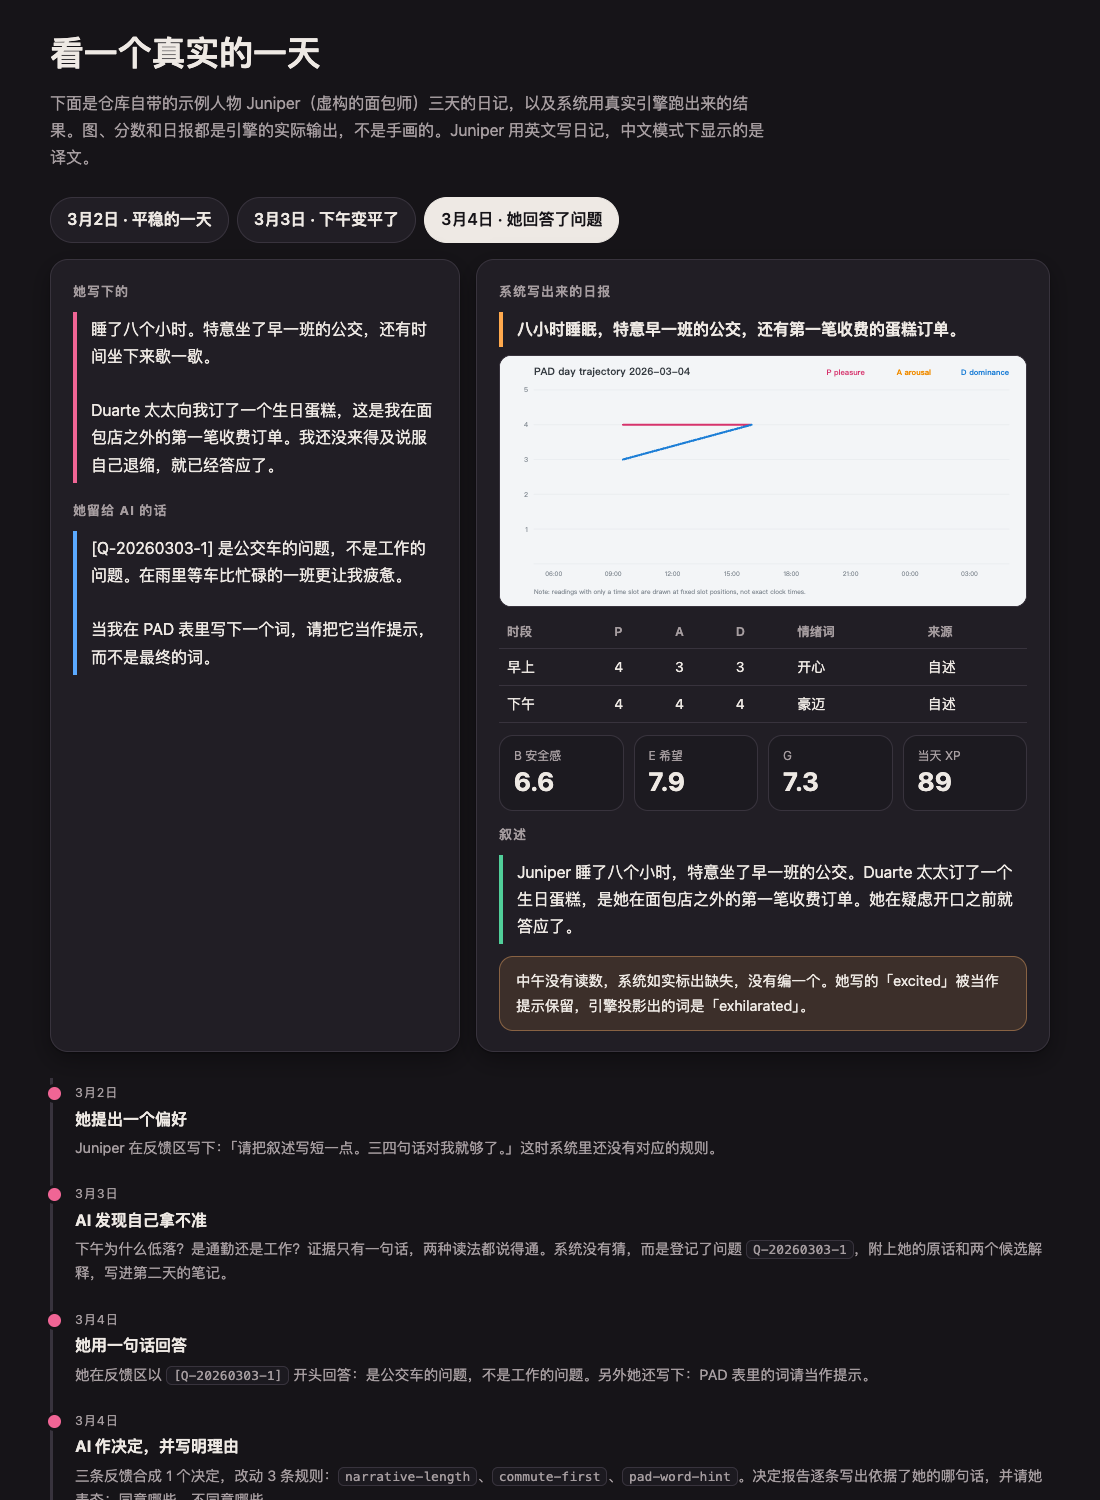
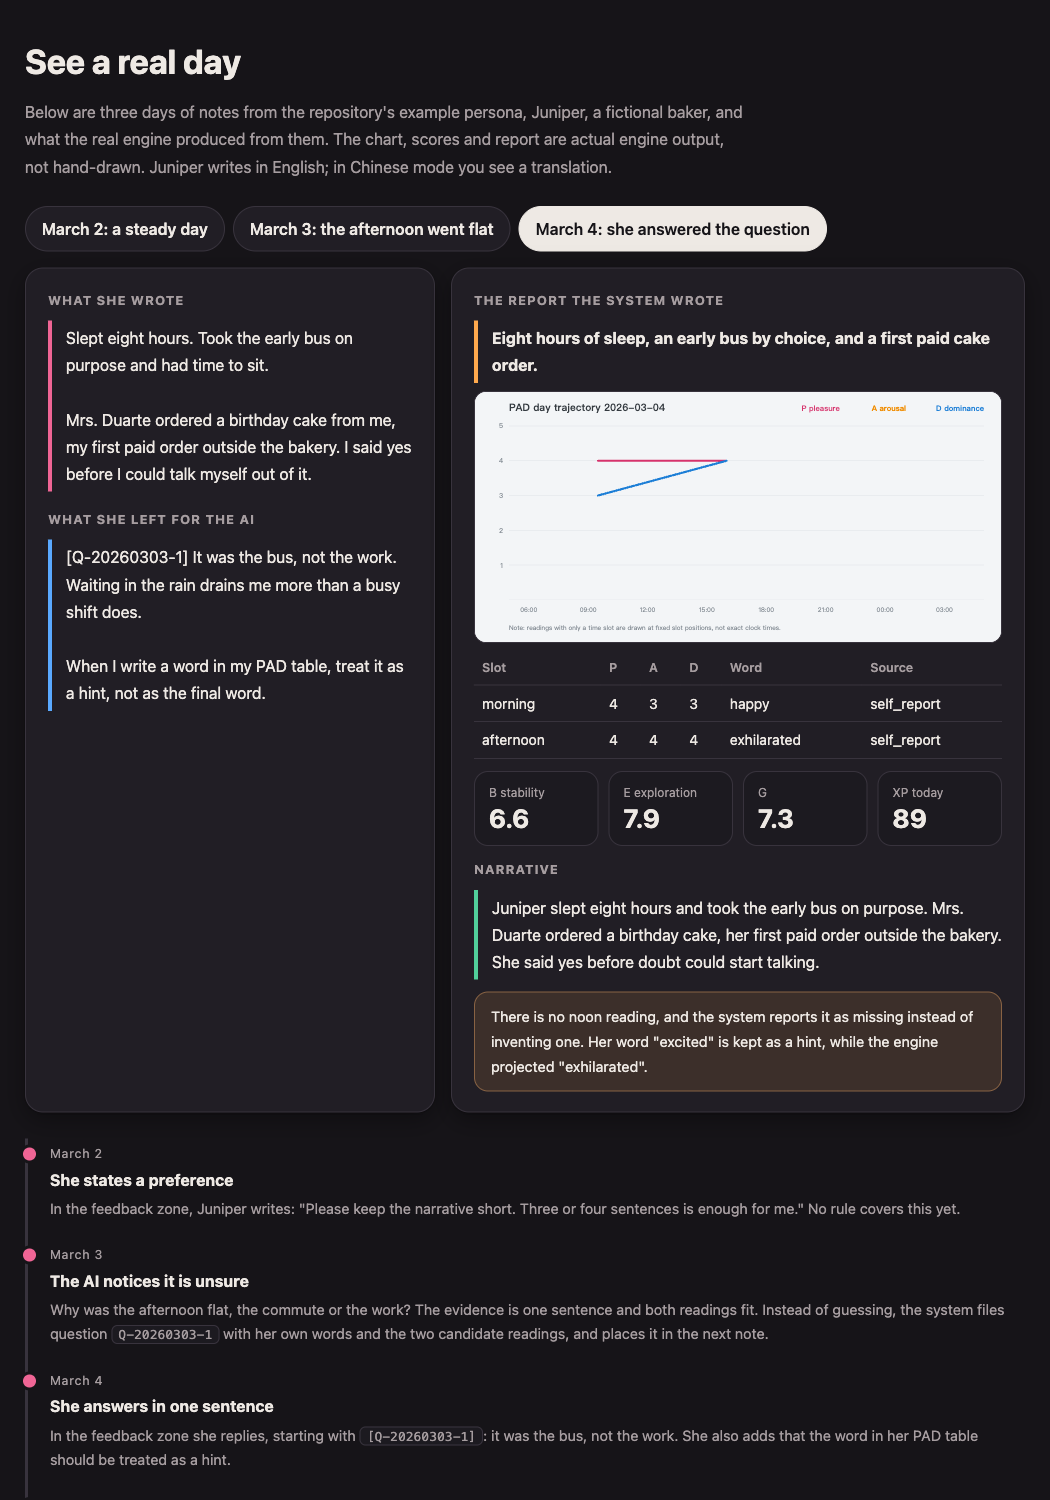
docs: English day screenshot for README.md, Chinese one for README.zh.md (new G labels)

diff --git a/README.zh.md b/README.zh.md
@@ -68,7 +68,7 @@ etrace prompt daily --raw  # 代理跑日报时用的 prompt
 
 ## 一天是什么样
 
-<p align="center"><a href="https://maxont.github.io/existence-trace/#day"><img src="docs/img/day.png" alt="一位虚构面包师的一天：笔记、疑问、反馈、日报" width="720"></a></p>
+<p align="center"><a href="https://maxont.github.io/existence-trace/#day"><img src="docs/img/day.zh.png" alt="一位虚构面包师的一天：笔记、疑问、反馈、日报" width="720"></a></p>
 
 | 默认时间 | 任务 | 做什么 |
 |---|---|---|
